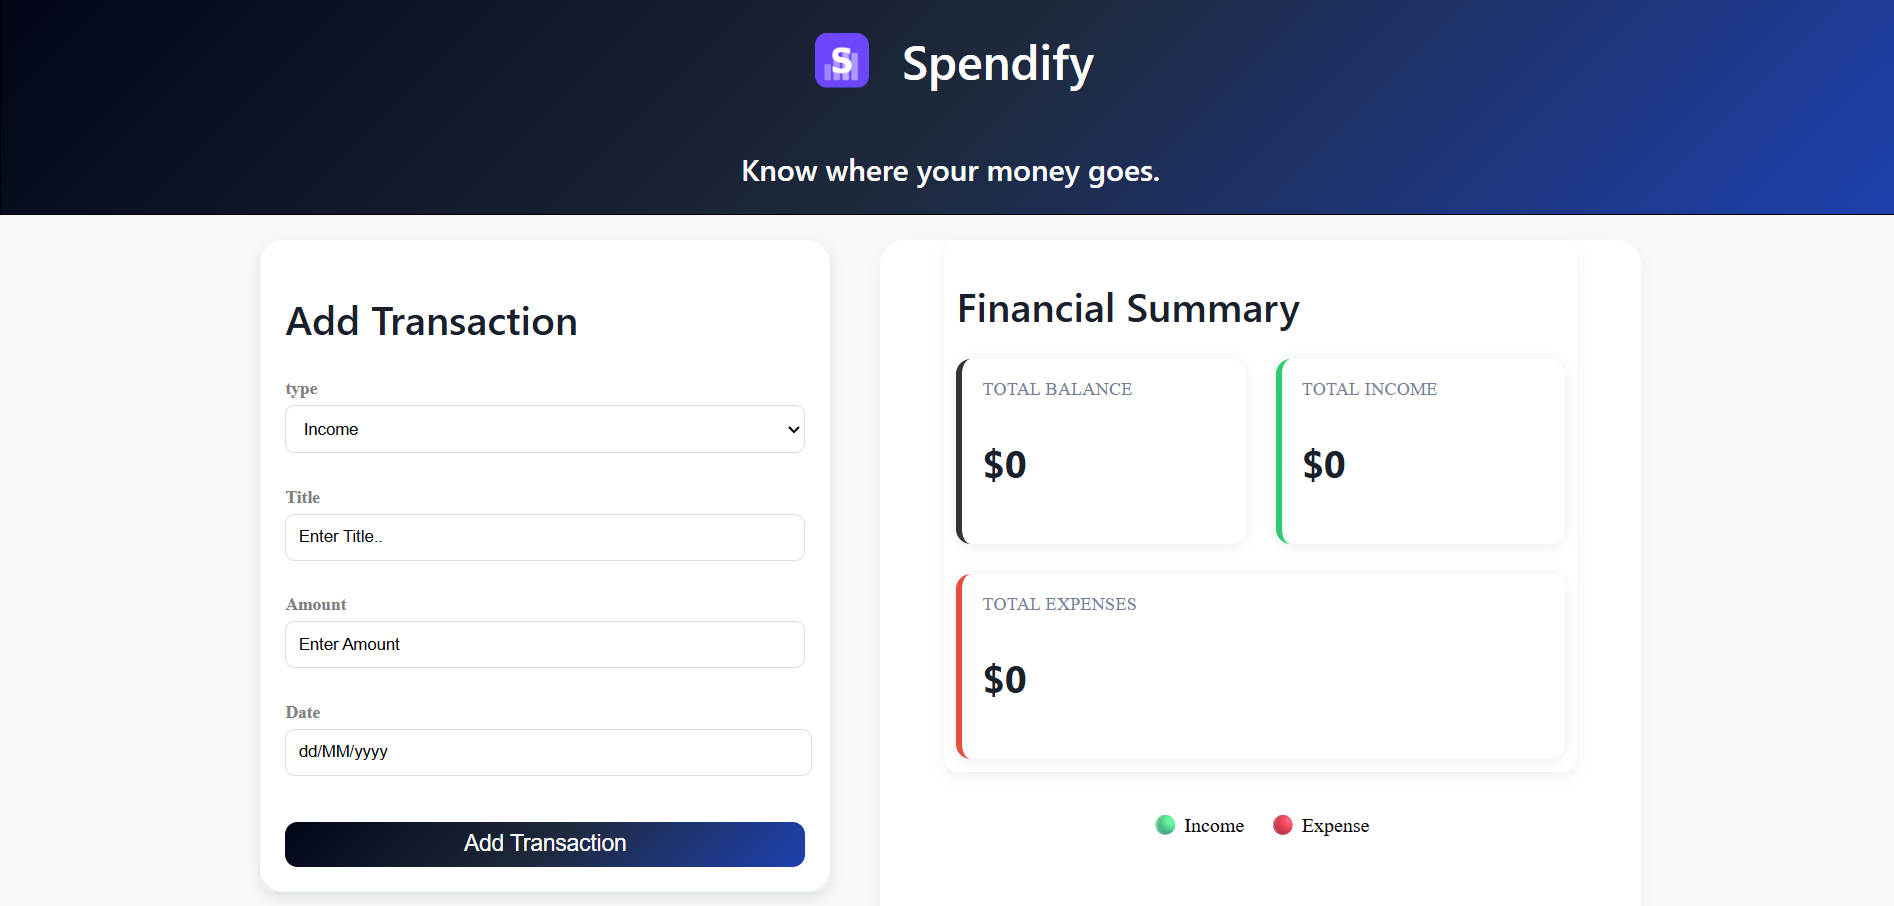
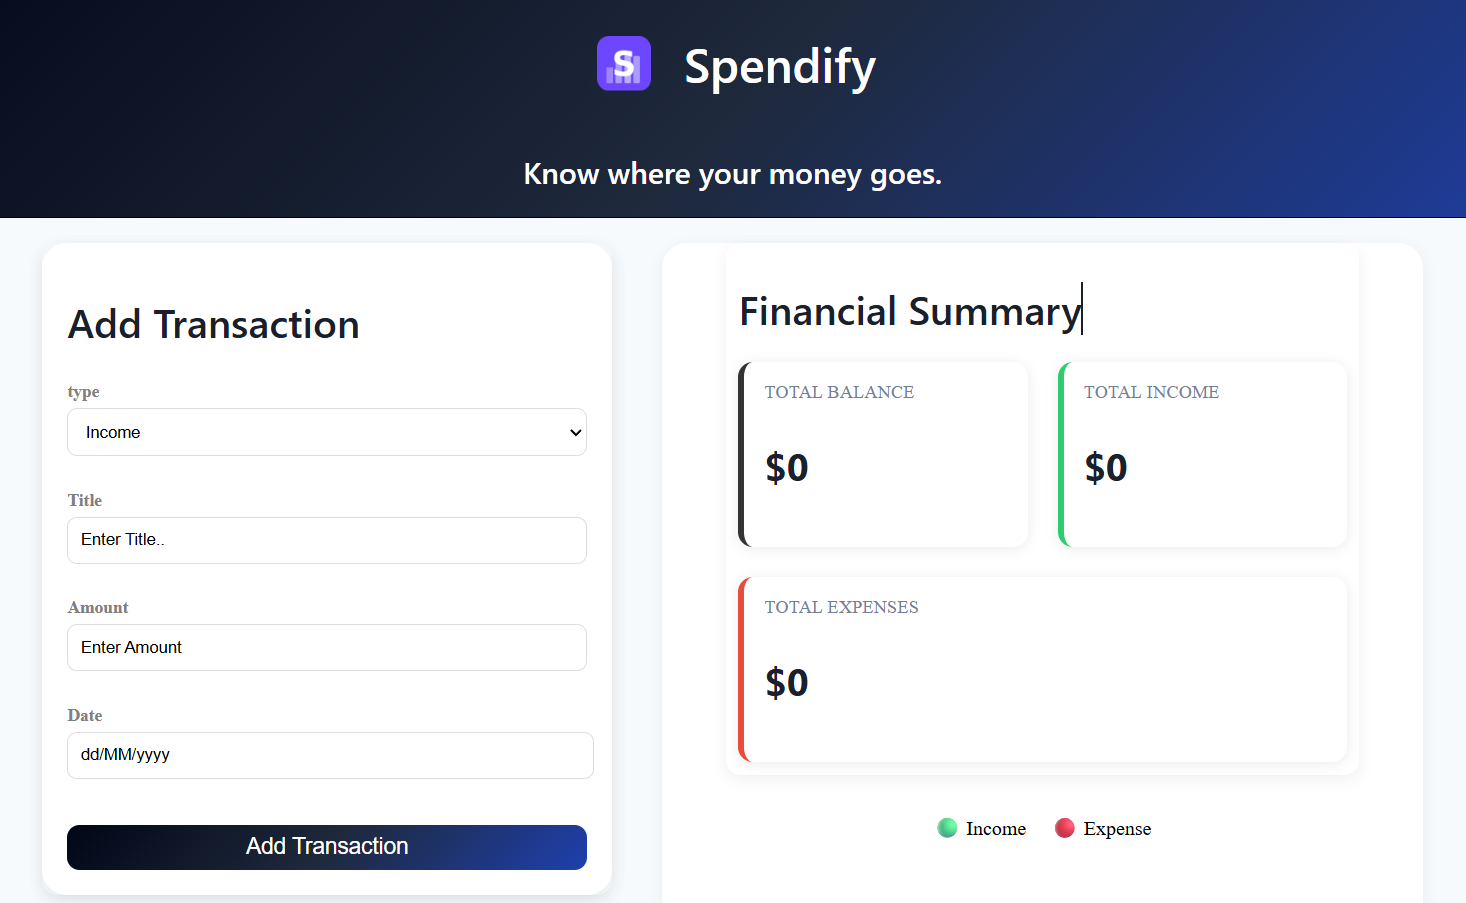
updated the ui

diff --git a/src/components/Project.css b/src/components/Project.css
@@ -16,8 +16,8 @@
   display: flex;
   align-items: center;
   flex-direction: column;
-  width: 48%;
-  gap: 10px;
+  width: 40%;
+  gap:8px;
   background: linear-gradient(
     145deg,
     rgba(30, 30, 40, 0.95),
@@ -49,9 +49,16 @@
   box-shadow: 0 20px 60px rgba(99, 102, 241, 0.22);
 }
 
+
+.parent{
+  display: flex;
+  flex-direction: column;
+  align-items: center;
+  gap: 30px;
+}
 .img {
-  width: 95%;
-  height: 350px;
+  width: 90%;
+  height: 320px;
   margin-top: 20px;
   object-fit: cover;
   border-radius: 10px;
@@ -105,9 +112,10 @@
 }
 
 .project-section span {
+  padding-top: 20px;
   width: 95%;
   color: white;
-  font-size: 1.5rem;
+  font-size: 1.6rem;
   font-family:
     system-ui,
     -apple-system,
@@ -146,8 +154,10 @@
 
 @media (max-width: 768px) {
   .project-section {
-    width: 100%;
+    width: 90%;
   }
+
+ 
 
   .button-box {
     width: 85%;
@@ -156,6 +166,8 @@
   }
 
   .project-section span {
+    /* border: 1px solid white; */
+    margin-top: 2vh;
     width: 85%;
     color: white;
     font-size: 1.5rem;
@@ -181,15 +193,15 @@
 
   #meteoraMobile {
     display: block;
-    height: 550px;
+  height: 370px;
+    width: 76%;
     object-fit: cover;
-    width: 94%;
   }
 
   #spendifyMobile {
     display: block;
-    height: 550px;
-    width: 90%;
+    height: 370px;
+    width: 76%;
   }
 
   .project-section {

diff --git a/src/components/Navbar.css b/src/components/Navbar.css
@@ -86,7 +86,7 @@
   transition:
     background-Color 0.4s ease,
     transform 0.3s ease;
-  padding: 10px;
+padding: 0.6rem 2.0rem;
   
 
 }
@@ -275,7 +275,7 @@ body {
   }
 
   #title-info {
-    font-size: 30px;
+    font-size: 27px;
   }
 
   #name {
@@ -283,8 +283,9 @@ body {
   }
 
   #info {
+    font-family: system-ui, -apple-system, BlinkMacSystemFont, 'Segoe UI', Roboto, Oxygen, Ubuntu, Cantarell, 'Open Sans', 'Helvetica Neue', sans-serif;
     width: 100%;
-    font-size: 16px;
+    font-size: 15px;
   }
 
   #parent-nav {
@@ -292,7 +293,8 @@ body {
   }
 
   .nav {
-    width: 50vw;
+    border: 1px solid rgb(255, 255, 255);
+    width: 60vw;
   }
 
   .parent-box {